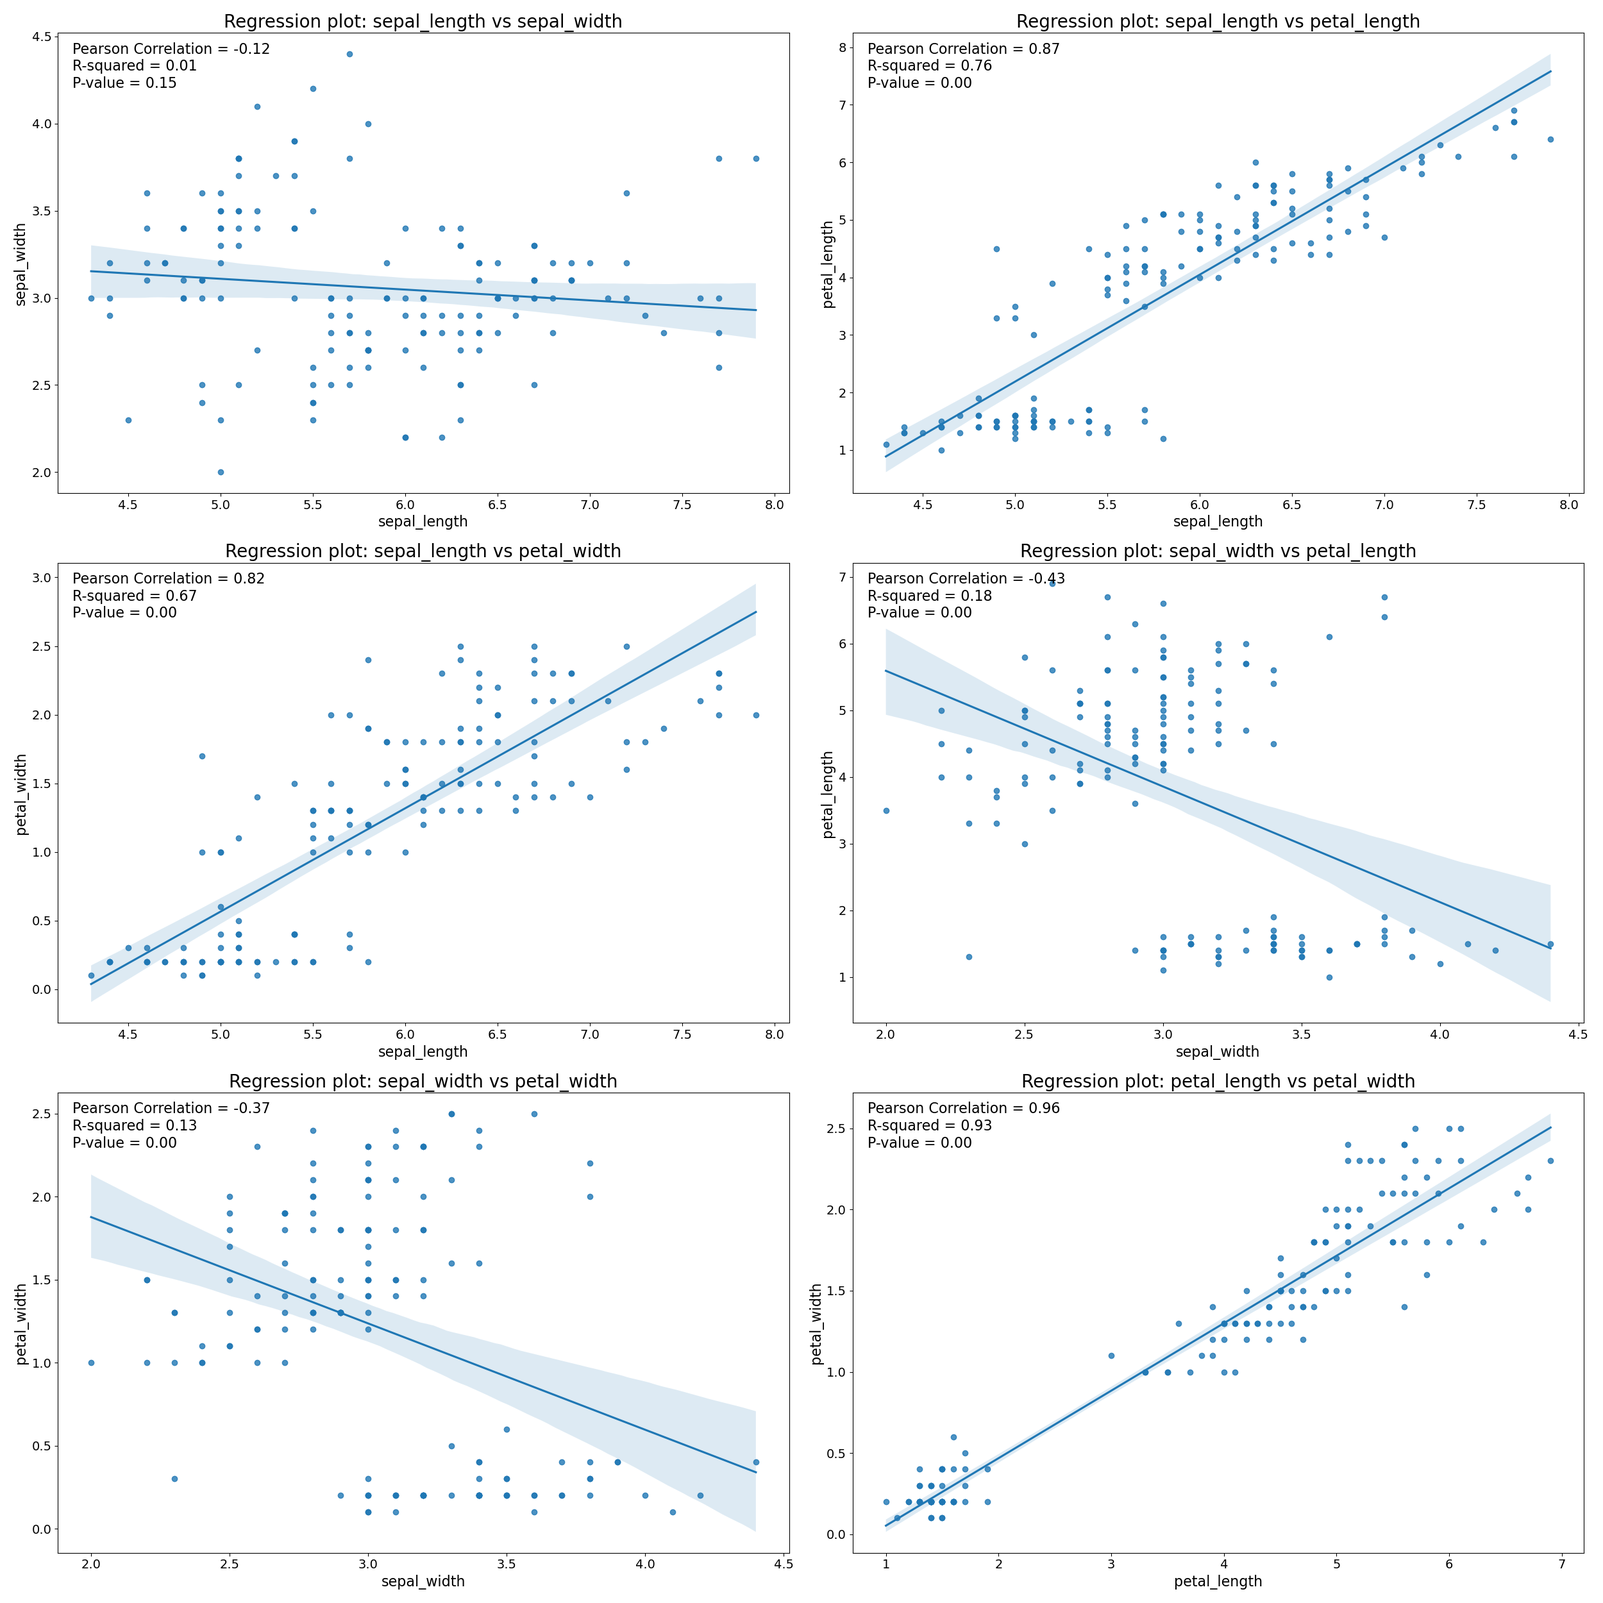
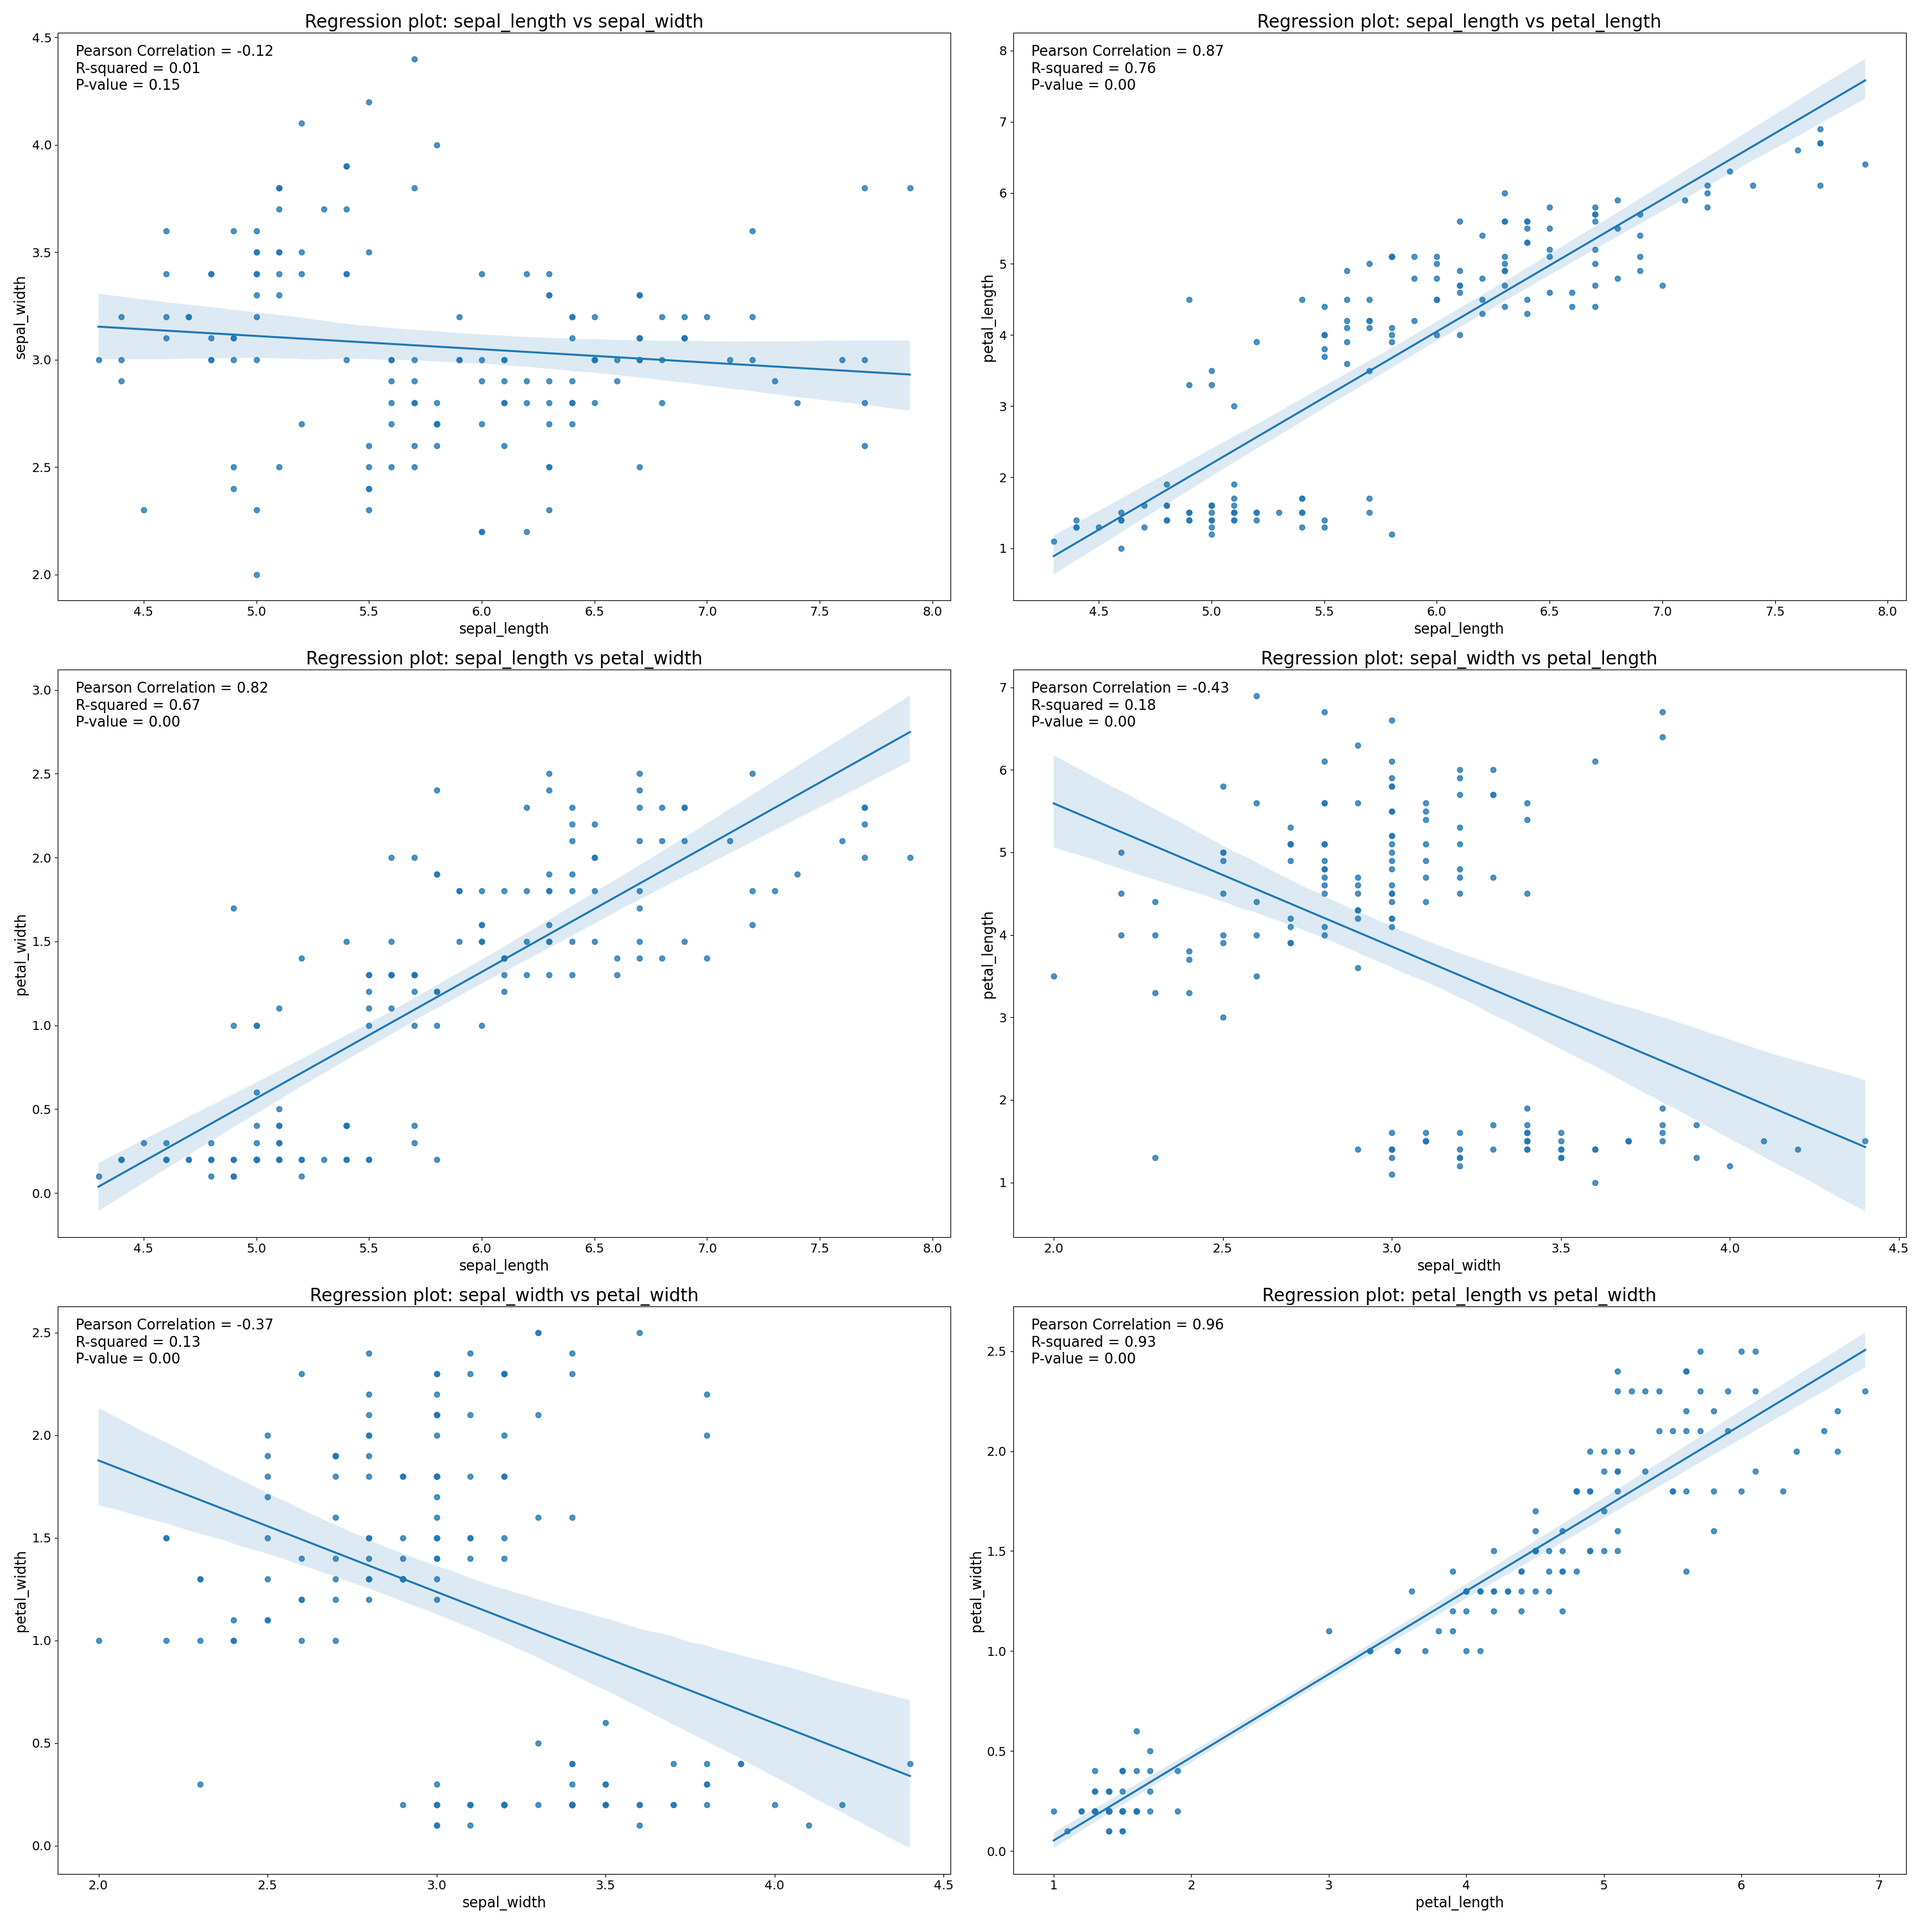
Updated format of file and updated analysis.py file to include formatting updates

diff --git a/analysis.py b/analysis.py
@@ -381,6 +381,7 @@ plt.savefig(os.path.join(exp_path, 'Bar Chart.png')) # Saving the plot to the de
 # In[55]:
 
 
+plt.rcParams.update({'font.size': 14}) # Set font sizes
 plt.figure(figsize=(25, 15))  # Setting the size of the plot
 ax = sns.countplot(data=df, # Creating a Countplot using the data from the data frame created
                    y="species", # Coloring based on the species
@@ -404,7 +405,7 @@ for p in ax.patches: # Using a for loop to get and apply a label to each bar in 
                 va='center', # Aligning the labels to veritcally centrally aligned
                 fontsize=14) # Setting the font size
 
-plt.savefig(os.path.join(dist_path, 'CountPlot.png')) # Saving the plot to the desired folder
+plt.savefig(os.path.join(exp_path, 'CountPlot.png')) # Saving the plot to the desired folder
 
 
 # In[56]:
@@ -628,4 +629,115 @@ file_path = os.path.join(folder_path, 'correlation_summary_statistics.txt') # Cr
 with open(file_path, 'w') as file: # Accessing the file path in write mode and if the files exists overwriting it and otherwise creating it
     file.write(corr_summary_txt) # Writing the summary text to a file
 
+plt.rcParams.update({'font.size': 14}) # Set font sizes
 
+# Violin plot for each variable
+plt.figure(figsize=(25, 15))  # Setting the size of the plot
+
+# Violin plot for sepal length
+plt.subplot(2, 2, 1)
+sns.violinplot(data=df, x="species", y="sepal_length", palette="Set1", inner="quartile")
+plt.title('Violin Plot of Sepal Length by Species', fontsize=20)
+plt.xlabel('Species', fontsize=18)
+plt.ylabel('Sepal Length (cm)', fontsize=18)
+
+# Violin plot for sepal width
+plt.subplot(2, 2, 2)
+sns.violinplot(data=df, x="species", y="sepal_width", palette="Set2", inner="quartile")
+plt.title('Violin Plot of Sepal Width by Species', fontsize=20)
+plt.xlabel('Species', fontsize=18)
+plt.ylabel('Sepal Width (cm)', fontsize=18)
+
+# Violin plot for petal length
+plt.subplot(2, 2, 3)
+sns.violinplot(data=df, x="species", y="petal_length", palette="Set3", inner="quartile")
+plt.title('Violin Plot of Petal Length by Species', fontsize=20)
+plt.xlabel('Species', fontsize=18)
+plt.ylabel('Petal Length (cm)', fontsize=18)
+
+# Violin plot for petal width
+plt.subplot(2, 2, 4)
+sns.violinplot(data=df, x="species", y="petal_width", palette="Set1", inner="quartile")
+plt.title('Violin Plot of Petal Width by Species', fontsize=20)
+plt.xlabel('Species', fontsize=18)
+plt.ylabel('Petal Width (cm)', fontsize=18)
+
+plt.tight_layout()
+plt.savefig(os.path.join(exp_path, 'Violin Plot.png')) # Saving the plot to the desired folder
+
+
+plt.figure(figsize=(30, 15)) # Setting the size of the figure
+
+# Plot for sepal width
+plt.subplot(1, 3, 1) # Setting on what sub plot the graph should be positioned
+axe_1 = sns.barplot(data=df_eda, # Using the data from the dataframe created
+                  x="species", # Setting species to be on the x-axis
+                  y="sepal_area",  # Setting sepal width to be on the y-axis
+                  hue="species", # Setting species to be the colour of the bars
+                  color='skyblue', # Setting the color to be Sky Blue
+                  edgecolor='black', # Adding a feint black line around the bars for display purposes
+                  errorbar=None, # Removing the error bar from the graph
+                  legend=False,
+                  dodge=False, # Turning off dodge on the plot so the display looks neater
+                  linewidth=1.5) # Setting the line width of the black line around the bars.
+plt.yticks([]) # Setting the tick marks to be blank by assigning an empty list.
+plt.xticks([]) # Setting the tick marks to be blank by assigning an empty list.
+plt.xlabel('') # Setting the x-axis label to be blank
+plt.ylabel('') # Setting the y-axis label to be blank
+plt.title('Mean Sepal Area Per Species', # Setting the name of the plot
+           size=18, # Setting the font size of the plot
+           color='#4f4e4e') # Setting the color of the title
+
+# Plot for sepal width
+plt.subplot(1, 3, 2) # Setting on what sub plot the graph should be positioned
+axe_2 = sns.barplot(data=df_eda, # Using the data from the dataframe created
+                  x="species", # Setting species to be on the x-axis
+                  y="petal_area",  # Setting sepal width to be on the y-axis
+                  hue="species", # Setting species to be the colour of the bars
+                  color='skyblue', # Setting the color to be Sky Blue
+                  edgecolor='black', # Adding a feint black line around the bars for display purposes
+                  legend=False,
+                  errorbar=None, # Removing the error bar from the graph
+                  dodge=False, # Turning off dodge on the plot so the display looks neater
+                  linewidth=1.5) # Setting the line width of the black line around the bars.
+plt.yticks([]) # Setting the tick marks to be blank by assigning an empty list.
+plt.xticks([]) # Setting the tick marks to be blank by assigning an empty list.
+plt.xlabel('') # Setting the x-axis label to be blank
+plt.ylabel('') # Setting the y-axis label to be blank
+plt.title('Mean Petal Area Per Species', # Setting the name of the plot
+           size=18, # Setting the font size of the plot
+           color='#4f4e4e') # Setting the color of the title
+
+# Plot for sepal width
+plt.subplot(1, 3, 3) # Setting on what sub plot the graph should be positioned
+axe_3 = sns.barplot(data=df_eda, # Using the data from the dataframe created
+                  x="species", # Setting species to be on the x-axis
+                  y="flower_volume",  # Setting sepal width to be on the y-axis
+                  hue="species", # Setting species to be the colour of the bars
+                  color='skyblue', # Setting the color to be Sky Blue
+                  edgecolor='black', # Adding a feint black line around the bars for display purposes
+                  errorbar=None, # Removing the error bar from the graph
+                  legend=True,
+                  dodge=False, # Turning off dodge on the plot so the display looks neater
+                  linewidth=1.5) # Setting the line width of the black line around the bars.
+plt.yticks([]) # Setting the tick marks to be blank by assigning an empty list.
+plt.xticks([]) # Setting the tick marks to be blank by assigning an empty list.
+plt.xlabel('') # Setting the x-axis label to be blank
+plt.ylabel('') # Setting the y-axis label to be blank
+plt.legend(bbox_to_anchor=(1, 1), loc='upper left') # Moving legend to the top right.
+plt.title('Mean Flower Volume Per Species', # Setting the name of the plot
+           size=18, # Setting the font size of the plot
+           color='#4f4e4e') # Setting the color of the title
+sns.despine(left=True) # Using the despine function to remove the axis lines on the left hand side
+
+
+# Add a title to the figure
+plt.suptitle('Mean Measurement Per Species', size=24, color='#4f4e4e') # Setting the overall title of the graph
+
+bar_label(axe_1) # Applying the function to the plot
+bar_label(axe_2) # Applying the function to the plot
+bar_label(axe_3) # Applying the function to the plot
+
+
+# Show plot
+plt.savefig(os.path.join(exp_path, 'Bar Chart Calculated Variables.png')) # Saving the plot to the desired folder
